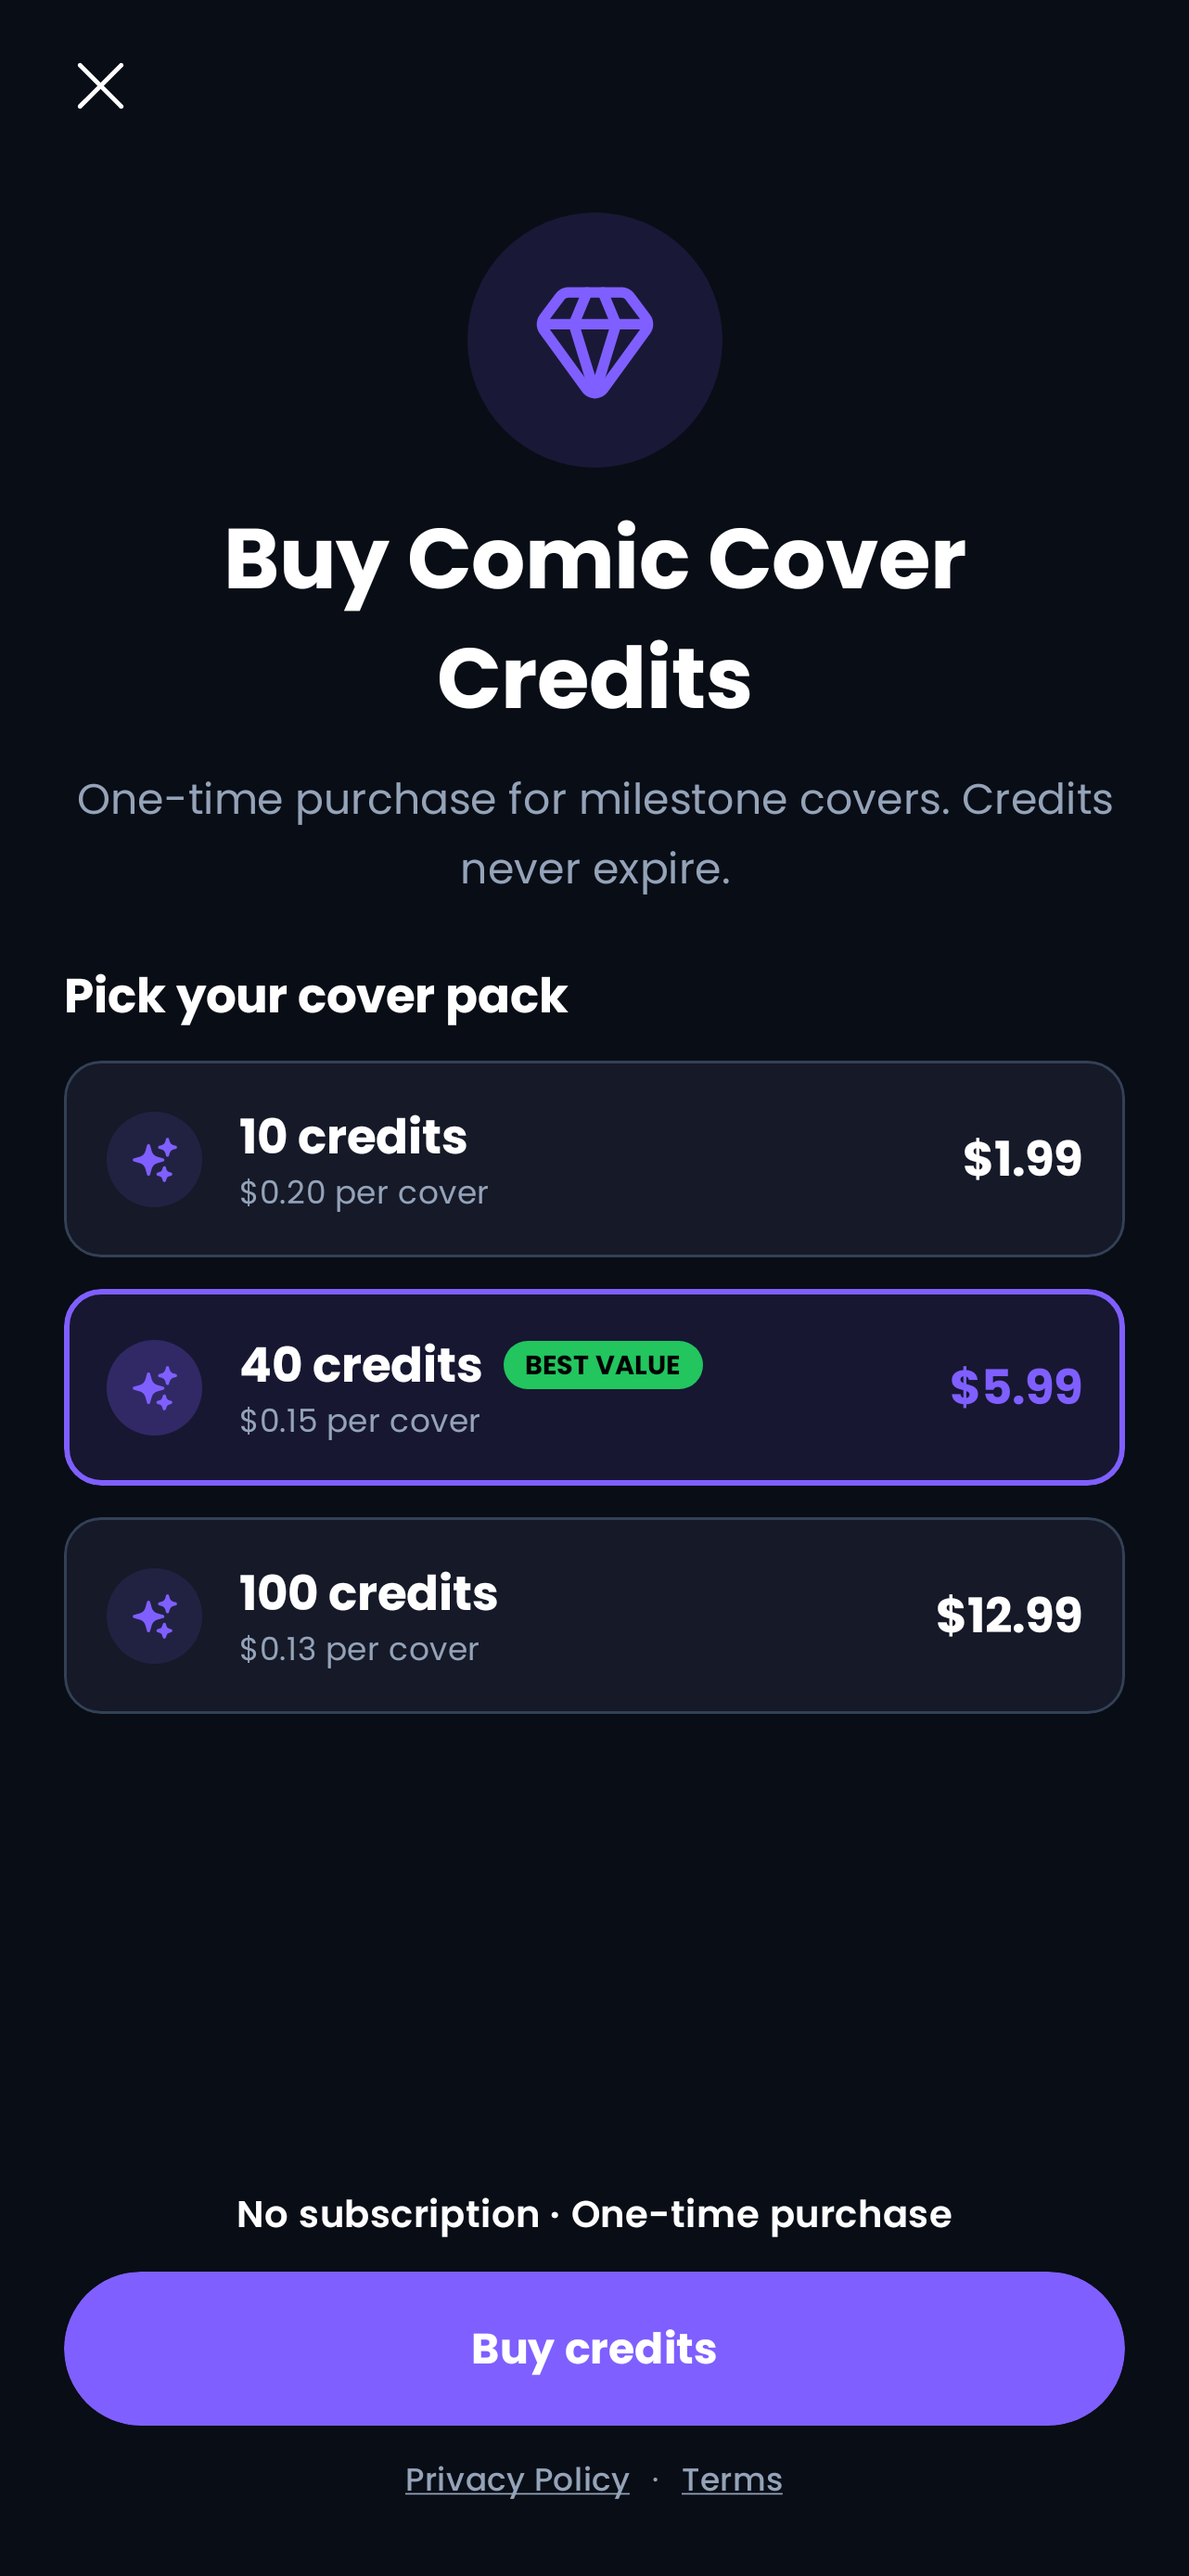
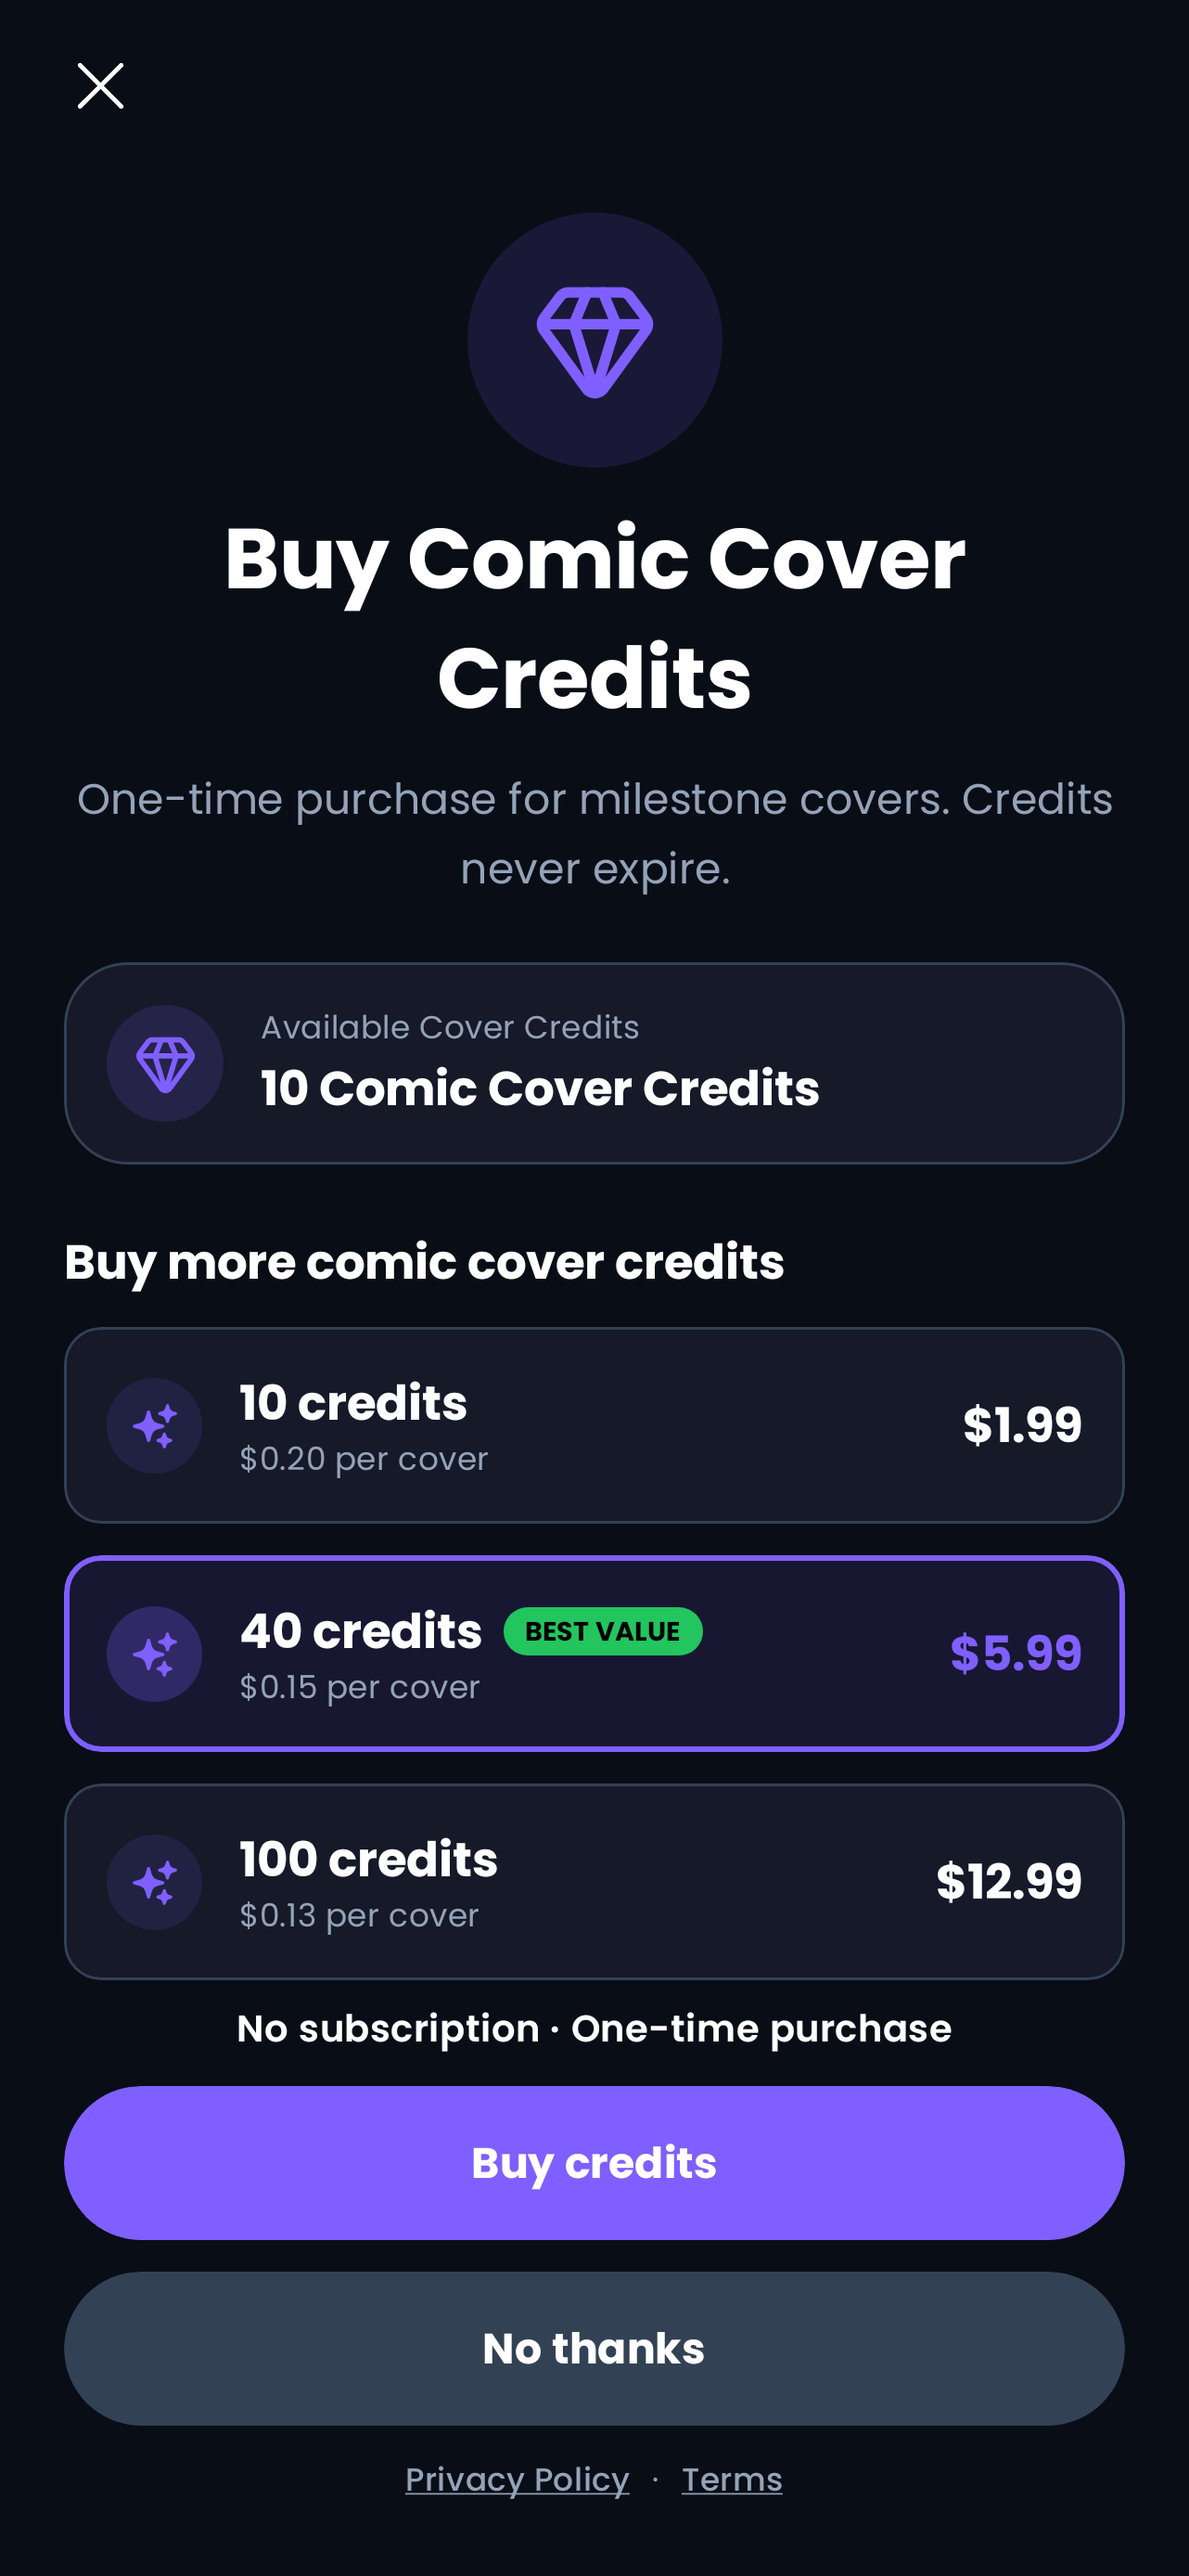
feat(paywall): add a grey "No thanks" opt-out to the credit pack screen
The credit pack screen is an offer, not a wall, but the only way out was
the X in the toolbar — easy to read as "there is no way past this". Adds
a full-width "No thanks" below the buy button that calls the same
dismiss, so the exit is where people look for it.

ButtonStyle had no neutral option: ALTERNATIVE is primary-tinted and
still reads as something to tap. Adds a grey SECONDARY style built on the
existing outline colour. The enum is only exhaustively matched in
Button.kt, both branches updated, plus a preview row.

Store screenshot re-rendered for the credit pack screen only; the other
previews in that folder are stale against the 9da8d49 rebrand and are
left alone rather than mixed into this change.

diff --git a/MobileApp/shared/src/commonMain/kotlin/com/dyor/habithero/presentation/screens/paywall/creditpack/CreditPackPaywallScreen.kt b/MobileApp/shared/src/commonMain/kotlin/com/dyor/habithero/presentation/screens/paywall/creditpack/CreditPackPaywallScreen.kt
@@ -41,6 +41,7 @@ import com.dyor.habithero.designsystem.generated.resources.ic_coin_credits
 import com.dyor.habithero.designsystem.generated.resources.ic_sparkles
 import com.dyor.habithero.designsystem.theme.AppTheme
 import com.dyor.habithero.generated.resources.Res
+import com.dyor.habithero.generated.resources.btn_no_thanks
 import com.dyor.habithero.generated.resources.credit_available
 import com.dyor.habithero.generated.resources.paywall_cp_credits_count
 import com.dyor.habithero.generated.resources.paywall_cp_credits_count_one
@@ -95,6 +96,7 @@ fun CreditPackPaywallScreen(
                 ctaText = uiState.ctaText.value,
                 aboveCtaText = uiState.aboveCtaText.value,
                 onBuy = { onUiEvent(PaywallUiEvent.OnClickBuy) },
+                onDecline = onDismiss,
             )
         }
     }
@@ -309,6 +311,7 @@ private fun StickyBuyFooter(
     ctaText: String,
     aboveCtaText: String,
     onBuy: () -> Unit,
+    onDecline: () -> Unit,
 ) {
     Column(modifier = Modifier.fillMaxWidth()) {
         Text(
@@ -325,6 +328,15 @@ private fun StickyBuyFooter(
             style = ButtonStyle.PRIMARY,
             enabled = buyButtonEnabled,
             onClick = onBuy,
+            modifier = Modifier.fillMaxWidth(),
+        )
+        Spacer(modifier = Modifier.height(AppTheme.spacing.groupedVerticalElementSpacing))
+        // Credits are optional, not a wall: give the same exit as the close icon somewhere
+        // people will actually look for it, in grey so it does not compete with the CTA.
+        AppButton(
+            text = stringResource(Res.string.btn_no_thanks),
+            style = ButtonStyle.SECONDARY,
+            onClick = onDecline,
             modifier = Modifier.fillMaxWidth(),
         )
         Spacer(modifier = Modifier.height(AppTheme.spacing.defaultSpacing))

diff --git a/MobileApp/designsystem/src/commonMain/kotlin/com/dyor/habithero/designsystem/components/Button.kt b/MobileApp/designsystem/src/commonMain/kotlin/com/dyor/habithero/designsystem/components/Button.kt
@@ -39,6 +39,10 @@ import org.jetbrains.compose.resources.painterResource
 enum class ButtonStyle {
     PRIMARY,
     ALTERNATIVE,
+
+    /** Neutral grey. For an opt-out sitting next to a primary action, where the
+     *  purple of ALTERNATIVE would still read as something we want tapped. */
+    SECONDARY,
     TEXT,
 }
 
@@ -78,12 +82,14 @@ fun AppButton(
             when (style) {
                 ButtonStyle.PRIMARY -> AppTheme.colors.primary
                 ButtonStyle.ALTERNATIVE -> AppTheme.colors.alternative
+                ButtonStyle.SECONDARY -> AppTheme.colors.outline
                 ButtonStyle.TEXT -> Color.Transparent
             },
             contentColor =
             when (style) {
                 ButtonStyle.PRIMARY -> AppTheme.colors.onPrimary
                 ButtonStyle.ALTERNATIVE -> AppTheme.colors.onAlternative
+                ButtonStyle.SECONDARY -> AppTheme.colors.text.primary
                 ButtonStyle.TEXT -> AppTheme.colors.primary
             },
         )
@@ -200,6 +206,7 @@ internal fun AppButtonPreviews() {
             endIcon = UiRes.drawable.ic_crown,
         )
         AppButton("Alternative Enabled", style = ButtonStyle.ALTERNATIVE, onClick = {})
+        AppButton("Secondary Enabled", style = ButtonStyle.SECONDARY, onClick = {})
 
         CircularActionButton(icon = UiRes.drawable.ic_crown, text = "Action")
         CircularActionButton(
